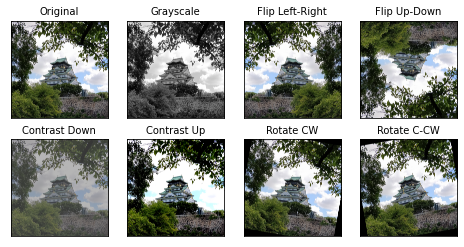
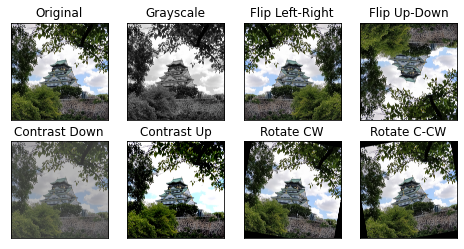
img size change

diff --git a/imageAugmentation/image_augmentation.py b/imageAugmentation/image_augmentation.py
@@ -26,25 +26,25 @@ plt.figure(figsize=(8,4))
 
 # plot images
 plt.subplot(2,4,1),plt.imshow(img)
-plt.title('Original', fontsize=10), plt.xticks([]), plt.yticks([])
+plt.title('Original'), plt.xticks([]), plt.yticks([])
 
 plt.subplot(2,4,2),plt.imshow(img_gray, cmap="gray")
-plt.title('Grayscale', fontsize=10), plt.xticks([]), plt.yticks([])
+plt.title('Grayscale'), plt.xticks([]), plt.yticks([])
 
 plt.subplot(2,4,3),plt.imshow(img_hflip)
-plt.title('Flip Left-Right', fontsize=10), plt.xticks([]), plt.yticks([])
+plt.title('Flip Left-Right'), plt.xticks([]), plt.yticks([])
 
 plt.subplot(2,4,4),plt.imshow(img_vflip)
-plt.title('Flip Up-Down', fontsize=10), plt.xticks([]), plt.yticks([])
+plt.title('Flip Up-Down'), plt.xticks([]), plt.yticks([])
 
 plt.subplot(2,4,5),plt.imshow(img_contrastLess)
-plt.title('Contrast Down', fontsize=10), plt.xticks([]), plt.yticks([])
+plt.title('Contrast Down'), plt.xticks([]), plt.yticks([])
 
 plt.subplot(2,4,6),plt.imshow(img_contrastMore)
-plt.title('Contrast Up', fontsize=10), plt.xticks([]), plt.yticks([])
+plt.title('Contrast Up'), plt.xticks([]), plt.yticks([])
 
 plt.subplot(2,4,7),plt.imshow(img_rotate1)
-plt.title('Rotate CW', fontsize=10), plt.xticks([]), plt.yticks([])
+plt.title('Rotate CW'), plt.xticks([]), plt.yticks([])
 
 plt.subplot(2,4,8),plt.imshow(img_rotate2)
-plt.title('Rotate C-CW', fontsize=10), plt.xticks([]), plt.yticks([])
+plt.title('Rotate C-CW'), plt.xticks([]), plt.yticks([])
